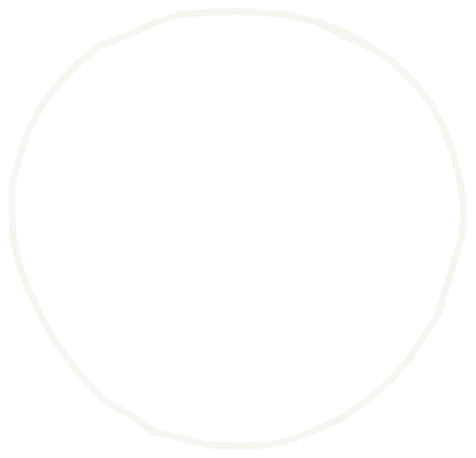
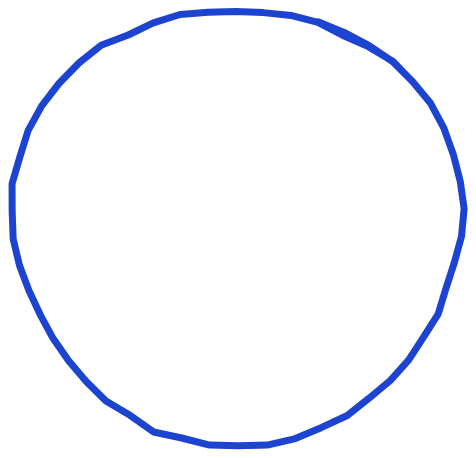
Intro: white sheet, blue ring and box; exit opens a stepped hole where the disc was

Changed region(s): [[0.0, 0.0, 1.0, 1.0]]

diff --git a/css/style.css b/css/style.css
@@ -2636,8 +2636,9 @@ html.ab-gallery-open { overflow: hidden; }
 /* =====================================================================
    OPENING INTRO (2026-11-23): the spinning CD, after the ATONY loop
    On the first page of a visit a blue sheet covers the page, the CD spins in the
-   loop's choppy steps inside the pen ring, the white tracker box cuts in around
-   it, then the disc shrinks home in jumps and the sheet lifts in steps.
+   loop's choppy steps inside the pen ring, the tracker box cuts in around it, then
+   the page shows through a hole where the disc was, opening in jumps. White sheet,
+   blue ring/box/labels (2026-11-23; it was blue with white marks for a day).
    A tiny script in each page's <head> adds html.is-intro before first paint, so
    the blue ::before cover is there from the start; js/main.js ("Opening intro")
    builds the rest, plays it and removes everything. Click or any key skips it.
@@ -2645,11 +2646,15 @@ html.ab-gallery-open { overflow: hidden; }
    (Replaced the level meter. The paper grain, body::after, sits on top of it.)
    ===================================================================== */
 html.is-intro { overflow: hidden; }
-html.is-intro::before { content: ""; position: fixed; inset: 0; z-index: 9996; background: #1d44d2;
+html.is-intro::before { content: ""; position: fixed; inset: 0; z-index: 9996; background: #fff;
   animation: intro-failsafe .3s ease 4s forwards; }
 @keyframes intro-failsafe { to { opacity: 0; visibility: hidden; } }
-.intro { --cd: clamp(150px, 26vmin, 240px); position: fixed; inset: 0; z-index: 9997; display: grid; place-items: center;
-  background: #1d44d2; cursor: pointer; overflow: hidden; }
+@property --hole { syntax: "<length>"; inherits: false; initial-value: 0px; }
+.intro { --cd: clamp(150px, 26vmin, 240px); --ink-i: #1d44d2; position: fixed; inset: 0; z-index: 9997; display: grid; place-items: center;
+  background: #fff; cursor: pointer; overflow: hidden;
+  /* the exit: a hole at the disc that grows (main.js animates --hole in steps) */
+  -webkit-mask: radial-gradient(circle at 50% 50%, transparent var(--hole), #000 calc(var(--hole) + .5px));
+          mask: radial-gradient(circle at 50% 50%, transparent var(--hole), #000 calc(var(--hole) + .5px)); }
 .intro__stage { position: relative; width: var(--cd); height: var(--cd); opacity: 0; }
 .intro.is-ready .intro__stage { opacity: 1; }
 /* each piece centred on the disc: --s is its size, left/top pull it back by half */
@@ -2659,9 +2664,9 @@ html.is-intro::before { content: ""; position: fixed; inset: 0; z-index: 9996; b
 /* sizes relative to the disc, as in the AE comp (disc 304px, ring 476x458, box ~355) */
 .intro__ring { --s: calc(var(--cd) * 1.566); --sh: calc(var(--cd) * 1.507); height: var(--sh); }
 .intro__box { --s: calc(var(--cd) * 1.17); height: var(--s); box-sizing: border-box;
-  border: 1.5px solid rgba(255, 255, 255, .92); opacity: 0; }
-.intro__box i { position: absolute; left: 50%; top: 50%; width: 5px; height: 5px; margin: -2.5px 0 0 -2.5px; background: #b9efb4; }
-.intro__xy, .intro__label { font-family: "DM Mono", ui-monospace, "SF Mono", Menlo, monospace; color: #fff; letter-spacing: .02em; }
+  border: 1.5px solid var(--ink-i); opacity: 0; }
+.intro__box i { position: absolute; left: 50%; top: 50%; width: 5px; height: 5px; margin: -2.5px 0 0 -2.5px; background: #3fae5c; }
+.intro__xy, .intro__label { font-family: "DM Mono", ui-monospace, "SF Mono", Menlo, monospace; color: var(--ink-i); letter-spacing: .02em; }
 .intro__xy { position: absolute; left: -1px; bottom: 100%; margin-bottom: 6px; font-size: 13px; white-space: nowrap; }
 .intro__label { position: absolute; bottom: 22px; font-size: 12px; opacity: .9; }
 .intro__label--l { left: 24px; }

diff --git a/js/main.js b/js/main.js
@@ -45,8 +45,9 @@
      the CD spins on a blue sheet in the loop's stop-motion style, 24 degrees a step at
      7.5 steps a second (every 4 frames at 30fps), and it and the pen ring nudge ~2px
      each step. The white tracker box from the loop cuts in around it, with a live
-     readout of where the disc sits on this screen. Then the disc shrinks home in
-     jumps (15fps) and the sheet lifts in steps. No ATONY word. Assets in
+     readout of where the disc sits on this screen. Then the disc drops out and the
+     page shows through a hole where it was, growing in 6 jumps (15fps). White sheet
+     (2026-11-23, was blue), blue ring and box. No ATONY word. Assets in
      assets/graphics/intro/ (cd.webp, ring.webp, from the AE package).
      Only when the <head> script set html.is-intro (first page of a visit, no reduced
      motion). Click or any key skips. Styles: "OPENING INTRO" in style.css.
@@ -83,8 +84,7 @@
     var STEP = 1000 / 7.5;                       /* one animation step: 133ms */
     var SPIN = 15 * STEP;                        /* 15 steps of 24 degrees = one turn, 2s */
     var BOX_IN = 2 * STEP, BOX_OUT = 8 * STEP;   /* the tracker box cuts in and out */
-    var SHRINK = 9 * STEP, SHRINK_LEN = 260;     /* the disc shrinks home at 15fps */
-    var W = SHRINK + 180, WIPE = 400;            /* the sheet lifts in 6 jumps */
+    var W = 9 * STEP, WIPE = 6 * STEP / 2;      /* the hole opens on step 9, in 6 jumps at 15fps */
     function A(node, kf, o) { var x = node.animate(kf, Object.assign({ fill: "both" }, o)); anims.push(x); return x; }
     /* a nudge of up to 2.4px every step, held (no tweening), like the loop's wobble */
     function wobble(node, extra) {
@@ -106,10 +106,12 @@
       wobble(cd); wobble(ring);
       A(box, [{ opacity: 0, offset: 0, easing: "step-end" }, { opacity: 1, offset: BOX_IN / W, easing: "step-end" },
                { opacity: 0, offset: BOX_OUT / W }, { opacity: 0, offset: 1 }], { duration: W });
-      A(stage, [{ scale: 1 }, { scale: 0.08 }], { duration: SHRINK_LEN, delay: SHRINK, easing: "steps(4, end)" });
-      A(ring, [{ opacity: 1 }, { opacity: 0 }], { duration: 1, delay: SHRINK + SHRINK_LEN / 2 });
-      var wipe = A(el, [{ clipPath: "inset(0 0 0% 0)" }, { clipPath: "inset(0 0 100% 0)" }],
-        { duration: WIPE, delay: W, easing: "steps(6, end)" });
+      /* the disc drops out and the page shows through a hole where it was, the hole
+         growing in jumps until it clears the screen (a stepped iris, no slide) */
+      A(stage, [{ opacity: 1 }, { opacity: 0 }], { duration: 1, delay: W });
+      var r0 = cd.getBoundingClientRect().width / 2, r1 = Math.hypot(innerWidth, innerHeight) / 2 + 40;
+      var wipe = A(el, [{ "--hole": r0 + "px" }, { "--hole": r1 + "px" }],
+        { duration: WIPE, delay: W, easing: "steps(6, jump-none)", fill: "forwards" });
       wipe.finished.then(function () { finish(); }).catch(function () {});
 
       if (/[?&]intro=hold/.test(location.search)) {

diff --git a/about.html b/about.html
@@ -25,7 +25,7 @@
        before anything paints. js/main.js "Opening intro" plays it and takes it away.
        ?intro=1 forces it; skipped for reduced motion. -->
   <script>document.documentElement.classList.add("js");try{if((/[?&]intro=(1|hold)/.test(location.search)||!sessionStorage.getItem("atony:intro"))&&!matchMedia("(prefers-reduced-motion: reduce)").matches)document.documentElement.classList.add("is-intro")}catch(e){}</script>
-  <link rel="stylesheet" href="css/style.css?v=x252" />
+  <link rel="stylesheet" href="css/style.css?v=x253" />
 </head>
 <body>
   <!-- ============ NAV ============ -->
@@ -243,6 +243,6 @@
   <!-- GSAP + ScrollTrigger: only the About page uses them (the scroll scene) -->
   <script src="https://cdnjs.cloudflare.com/ajax/libs/gsap/3.13.0/gsap.min.js"></script>
   <script src="https://cdnjs.cloudflare.com/ajax/libs/gsap/3.13.0/ScrollTrigger.min.js"></script>
-  <script src="js/main.js?v=x252"></script>
+  <script src="js/main.js?v=x253"></script>
 </body>
 </html>

diff --git a/index.html b/index.html
@@ -25,7 +25,7 @@
        before anything paints. js/main.js "Opening intro" plays it and takes it away.
        ?intro=1 forces it; skipped for reduced motion. -->
   <script>document.documentElement.classList.add("js");try{if((/[?&]intro=(1|hold)/.test(location.search)||!sessionStorage.getItem("atony:intro"))&&!matchMedia("(prefers-reduced-motion: reduce)").matches)document.documentElement.classList.add("is-intro")}catch(e){}</script>
-  <link rel="stylesheet" href="css/style.css?v=x252" />
+  <link rel="stylesheet" href="css/style.css?v=x253" />
 </head>
 <body>
   <!-- ============ NAV ============ -->
@@ -182,6 +182,6 @@
   </footer>
 
   <script src="assets/vendor/drawably/drawably.classic.js?v=0.4.2"></script>
-  <script src="js/main.js?v=x252"></script>
+  <script src="js/main.js?v=x253"></script>
 </body>
 </html>

diff --git a/studio.html b/studio.html
@@ -25,7 +25,7 @@
        before anything paints. js/main.js "Opening intro" plays it and takes it away.
        ?intro=1 forces it; skipped for reduced motion. -->
   <script>document.documentElement.classList.add("js");try{if((/[?&]intro=(1|hold)/.test(location.search)||!sessionStorage.getItem("atony:intro"))&&!matchMedia("(prefers-reduced-motion: reduce)").matches)document.documentElement.classList.add("is-intro")}catch(e){}</script>
-  <link rel="stylesheet" href="css/style.css?v=x252" />
+  <link rel="stylesheet" href="css/style.css?v=x253" />
 </head>
 <body>
   <!-- ============ NAV ============ -->
@@ -210,6 +210,6 @@
   </footer>
 
   <script src="assets/vendor/drawably/drawably.classic.js?v=0.4.2"></script>
-  <script src="js/main.js?v=x252"></script>
+  <script src="js/main.js?v=x253"></script>
 </body>
 </html>

diff --git a/work/vendrs.html b/work/vendrs.html
@@ -24,7 +24,7 @@
        before anything paints. js/main.js "Opening intro" plays it and takes it away.
        ?intro=1 forces it; skipped for reduced motion. -->
   <script>document.documentElement.classList.add("js");try{if((/[?&]intro=(1|hold)/.test(location.search)||!sessionStorage.getItem("atony:intro"))&&!matchMedia("(prefers-reduced-motion: reduce)").matches)document.documentElement.classList.add("is-intro")}catch(e){}</script>
-  <link rel="stylesheet" href="../css/style.css?v=x252" />
+  <link rel="stylesheet" href="../css/style.css?v=x253" />
 </head>
 <body>
   <div class="nav-outer">
@@ -398,6 +398,6 @@
     <img class="v-lightbox__img" src="" alt="" loading="lazy" decoding="async" />
   </div>
 
-  <script src="../js/main.js?v=x252"></script>
+  <script src="../js/main.js?v=x253"></script>
 </body>
 </html>

diff --git a/music.html b/music.html
@@ -26,7 +26,7 @@
        before anything paints. js/main.js "Opening intro" plays it and takes it away.
        ?intro=1 forces it; skipped for reduced motion. -->
   <script>document.documentElement.classList.add("js");try{if((/[?&]intro=(1|hold)/.test(location.search)||!sessionStorage.getItem("atony:intro"))&&!matchMedia("(prefers-reduced-motion: reduce)").matches)document.documentElement.classList.add("is-intro")}catch(e){}</script>
-  <link rel="stylesheet" href="css/style.css?v=x252" />
+  <link rel="stylesheet" href="css/style.css?v=x253" />
 </head>
 <body class="is-music">
 
@@ -187,6 +187,6 @@
   </footer>
 
   <script src="assets/vendor/drawably/drawably.classic.js?v=0.4.2"></script>
-  <script src="js/main.js?v=x252"></script>
+  <script src="js/main.js?v=x253"></script>
 </body>
 </html>

diff --git a/work/qac-gallery.html b/work/qac-gallery.html
@@ -24,7 +24,7 @@
        before anything paints. js/main.js "Opening intro" plays it and takes it away.
        ?intro=1 forces it; skipped for reduced motion. -->
   <script>document.documentElement.classList.add("js");try{if((/[?&]intro=(1|hold)/.test(location.search)||!sessionStorage.getItem("atony:intro"))&&!matchMedia("(prefers-reduced-motion: reduce)").matches)document.documentElement.classList.add("is-intro")}catch(e){}</script>
-  <link rel="stylesheet" href="../css/style.css?v=x252" />
+  <link rel="stylesheet" href="../css/style.css?v=x253" />
 </head>
 <body>
   <div class="nav-outer nav-outer--case">
@@ -226,6 +226,6 @@
     </div>
   </footer>
 
-  <script src="../js/main.js?v=x252"></script>
+  <script src="../js/main.js?v=x253"></script>
 </body>
 </html>

diff --git a/HANDOFF.md b/HANDOFF.md
@@ -1990,3 +1990,4 @@ Removed Speed Dating, Beat Breakdown, Genre Wheel (files moved to ../Portfolio2.
 
 ## 2026-11-23: New opening intro, the spinning CD (replaces the level meter)
 After the ATONY loop (Anthony's After Effects package, ~/Desktop/atony_after_effects_v2; the loop video is ~/Downloads/ATONY_LOOP_text.mp4). Blue sheet #1d44d2 (the loop's blue; the head-script ::before cover is that blue too). The CD (assets/graphics/intro/cd.webp, from the AE cd.png) spins 24deg a step at 7.5 steps/s, exactly the AE `posterizeTime(7.5); time*180`; it and the pen ring (ring.webp, from ink_ring_disc.png) nudge up to 2.4px each step (WAAPI translate, composite add, step-end keyframes). The white tracker box cuts in on step 2 and out on step 8, with a live readout of the disc's centre on this screen ("x: 720 y: 450"), green centre dot, "side a" / "001" corner labels in mono. Step 9 (1.2s) the disc shrinks home in 4 jumps, then the sheet lifts in 6 jumps (steps(6)); the page reveals at ~1.38s, all gone ~1.8s. No ATONY word. It waits for the disc image to decode (max 700ms) so it never spins an empty frame. Same rules as before: first page of a visit, not with reduced motion, click/key skips, 4s failsafe, ?intro=1 replays, ?intro=hold + __introSeek(ms). Sizes are multiples of --cd (clamp(150px, 26vmin, 240px)). tools/frames.swift grabs exact video frames. Cache token x252.
+- **Same day, revised:** white sheet (#fff, the ::before cover too) with the ring recoloured blue #1d44d2 (ring.webp), blue box/readout/labels, green centre dot. New exit, no slide or shrink: on step 9 the disc drops out and the page shows through a hole where it was (mask radial-gradient on .intro, registered --hole animated from the disc radius to past the corners, steps(6, jump-none), 400ms, fill forwards so it is closed until then). Reveal at ~1.2s, gone ~1.6s. Mockups: mockups/intro-cd.webp (animation) and intro-cd-frames.png, from `node tools/introframes.mjs <url> <dir> <w> <h> <fps> <ms>`. Cache token x253.
